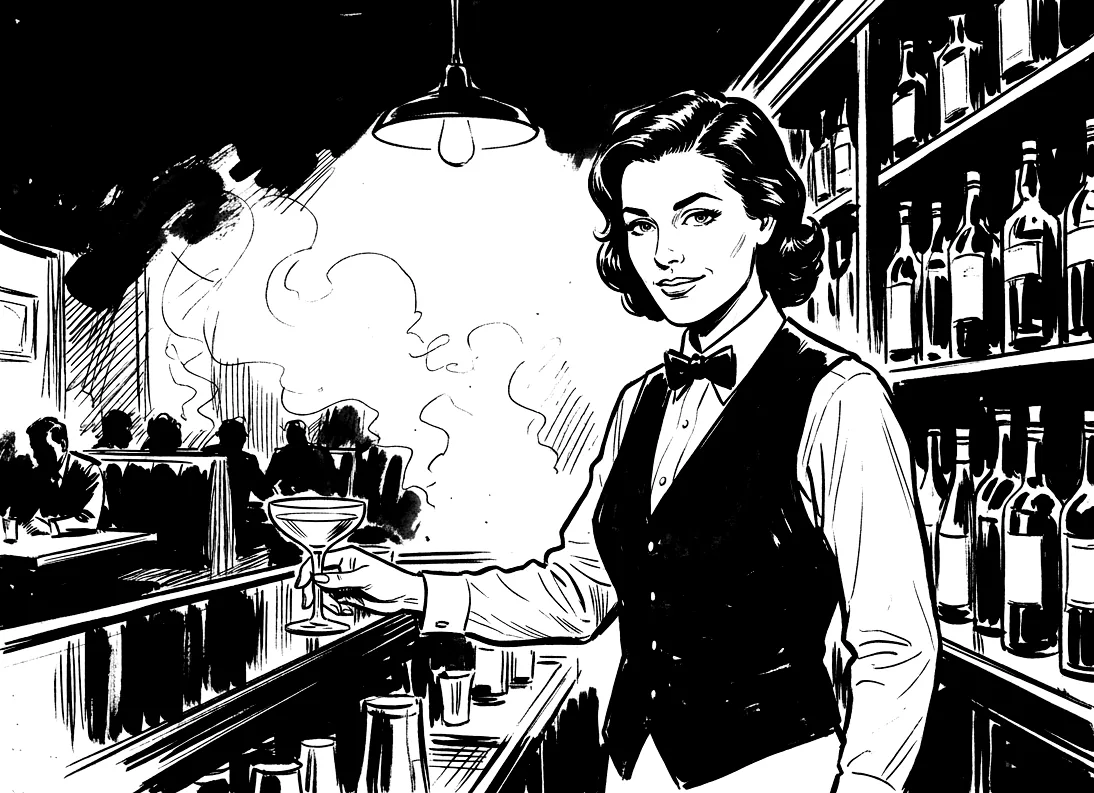
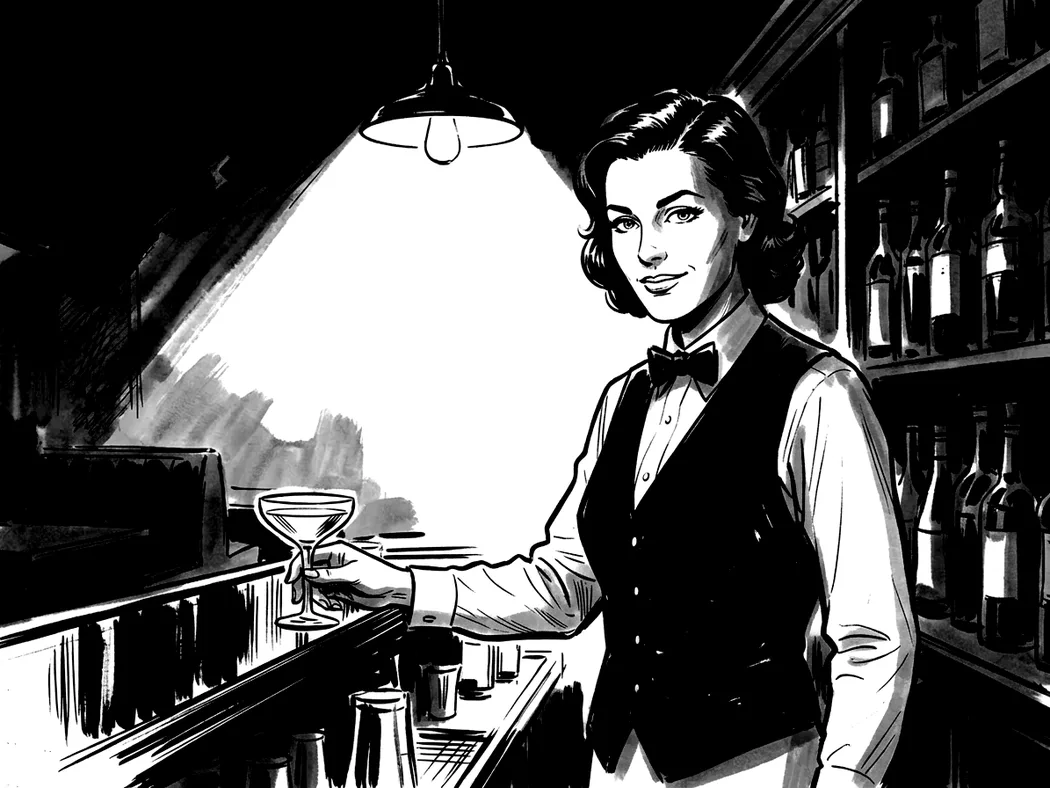
Rita om bartendern, man och kvinna, i den nya stilen
Mannen med den gamla bilden som referens: mörkare bar, färre detaljer och
lite lavering. Kvinnan med två referenser: den gamla kvinnan för personen
och den nya mannen för scen och stil. De nya bilderna är nu stilreferens
för porträtten (Jonas 2026-11-15).

Claude-Session: https://claude.ai/code/session_01X82C4AptUEE9LHKngPSzUq

diff --git a/docs/bildsmak.md b/docs/bildsmak.md
@@ -346,6 +346,10 @@ en regel.
   `roll-livvakt-man` ritad om med den gamla bilden som referens: "Vi kör på
   de". `roll-livvakt-kvinna` med två referenser (gamla kvinnan, nya mannen)
   och smalare axlar: "Mycket bra".
+  `roll-bartender-man` ritad om med den gamla bilden som referens, mörkare
+  bar och färre detaljer: "Mycket bra". `roll-bartender-kvinna` med två
+  referenser: "Det ser bra ut". De nya bilderna är nu stilreferens för
+  porträtten.
 
 ## Bilder att byta
 
@@ -357,9 +361,6 @@ motivet och byts bara om den nya blir bättre. Undantag som behålls:
 - `roll-dold`: en ny version prövades och blev inte bättre.
 - `roll-taxichauffor-man`, `morgon-mord-hamn-man` och
   `morgon-mord-telefonkiosk-man`: kvinnorna gjordes med dem som referens.
-- `roll-bartender-*` behålls tills vidare, eftersom ansiktena är
-  stilreferens för porträtten, och görs om sist. Blir de nya bättre byts
-  stilreferensen till dem.
 
 När bildansvarig kan ta fram bilder själv (via Gemini) byts de här först, i
 den här ordningen:
